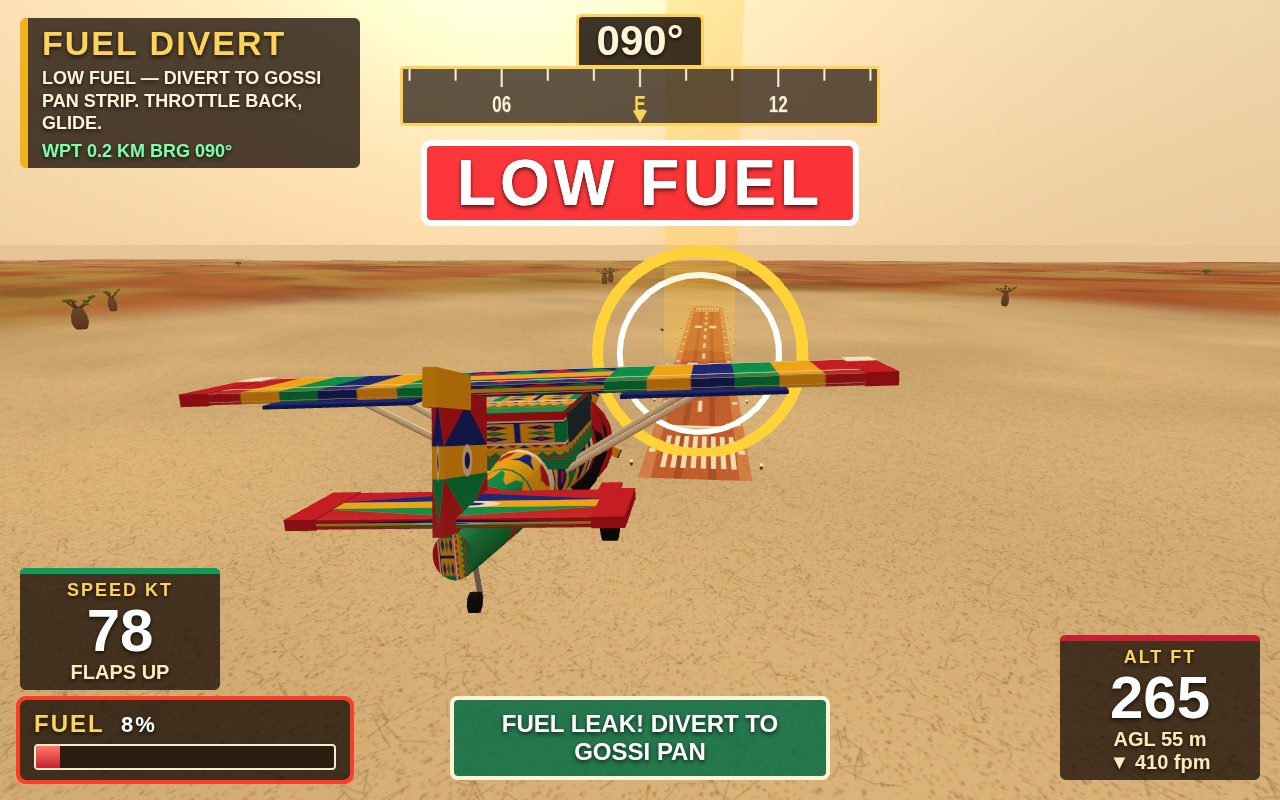
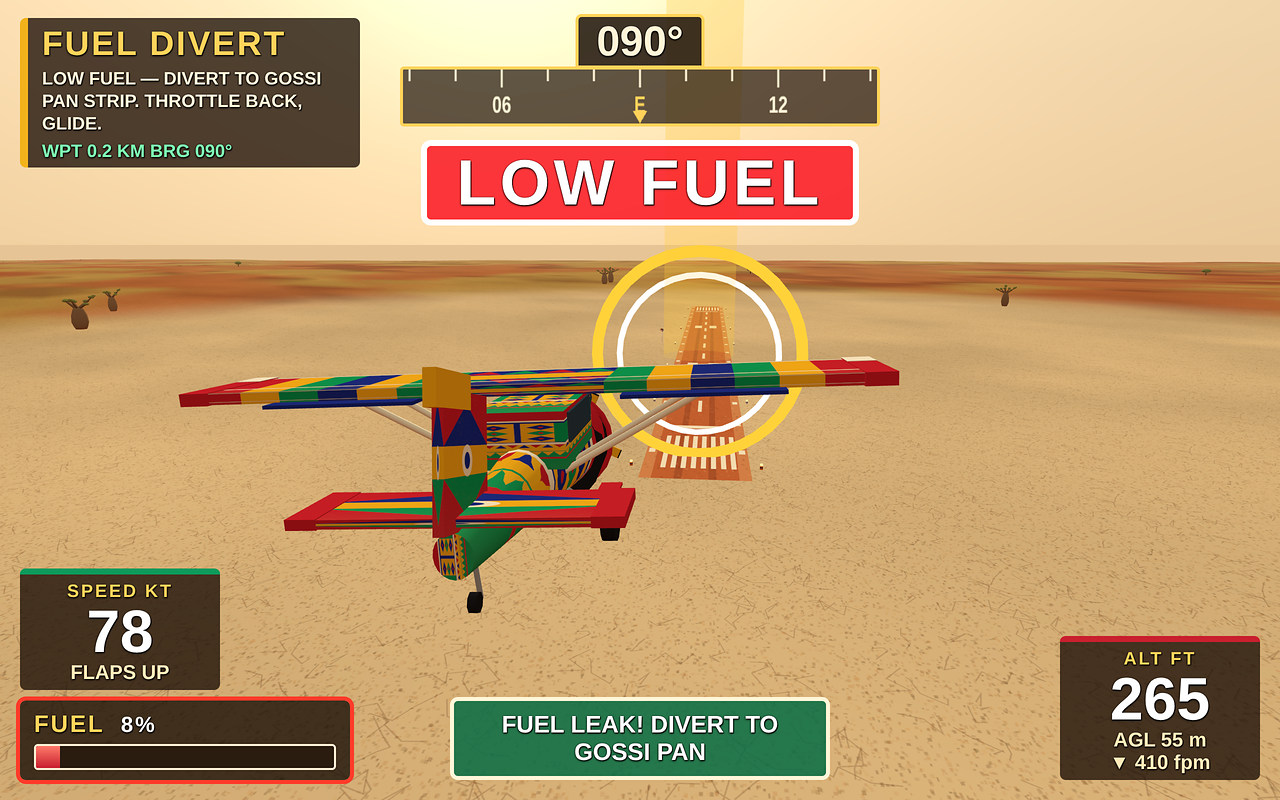
Sharper Harmattan Mail screenshots: 2x supersample, AA, anisotropic textures, crisper HUD, Dust Whiteout copy fix.

diff --git a/game/src/world/textureFactory.js b/game/src/world/textureFactory.js
@@ -5,13 +5,13 @@ import { mulberry32 } from '../core/rng.js';
 export function makeCanvas(w, h) { const c = document.createElement('canvas'); c.width = w; c.height = h; return c; }
 export function toTexture(c, repeat = false) {
   const t = new THREE.CanvasTexture(c);
-  t.colorSpace = THREE.SRGBColorSpace; t.anisotropy = 4;
+  t.colorSpace = THREE.SRGBColorSpace; t.anisotropy = 16;
   if (repeat) t.wrapS = t.wrapT = THREE.RepeatWrapping;
   return t;
 }
 
 export function groundDetailTexture() {
-  const c = makeCanvas(256, 256), g = c.getContext('2d'), r = mulberry32(3);
+  const c = makeCanvas(512, 512), g = c.getContext('2d'), r = mulberry32(3); g.scale(2, 2);
   g.fillStyle = '#ece1d0'; g.fillRect(0, 0, 256, 256);
   for (let i = 0; i < 2600; i++) {
     const v = 120 + r() * 120 | 0;
@@ -29,7 +29,7 @@ export function groundDetailTexture() {
 
 // Laterite strip: packed red earth, wheel tracks, white threshold bars, centre dashes, edge stones.
 export function stripTexture() {
-  const W = 128, L = 1024, c = makeCanvas(W, L), g = c.getContext('2d'), r = mulberry32(5);
+  const W = 128, L = 1024, c = makeCanvas(W * 2, L * 2), g = c.getContext('2d'), r = mulberry32(5); g.scale(2, 2);
   g.fillStyle = '#c9683a'; g.fillRect(0, 0, W, L);
   g.fillStyle = '#d98b57'; g.fillRect(0, 0, 14, L); g.fillRect(W - 14, 0, 14, L);
   g.fillStyle = 'rgba(110,45,25,0.28)'; g.fillRect(40, 0, 9, L); g.fillRect(79, 0, 9, L);
@@ -49,7 +49,7 @@ export function stripTexture() {
 }
 
 export function minaretTexture() {
-  const c = makeCanvas(128, 256), g = c.getContext('2d'), r = mulberry32(9);
+  const c = makeCanvas(256, 512), g = c.getContext('2d'), r = mulberry32(9); g.scale(2, 2);
   g.fillStyle = '#c98c54'; g.fillRect(0, 0, 128, 256);
   for (let i = 0; i < 900; i++) { g.fillStyle = `rgba(${r() < 0.5 ? '240,200,150' : '110,60,30'},${0.08 + r() * 0.14})`; g.fillRect(r() * 128, r() * 256, 2 + r() * 6, 1 + r() * 3); }
   g.fillStyle = '#7d4526'; for (const y of [0, 118, 244]) g.fillRect(0, y, 128, 12);
@@ -61,7 +61,7 @@ export function minaretTexture() {
 }
 
 export function clinicRoofTexture() {
-  const c = makeCanvas(256, 128), g = c.getContext('2d');
+  const c = makeCanvas(512, 256), g = c.getContext('2d'); g.scale(2, 2);
   g.fillStyle = '#b6222c'; g.fillRect(0, 0, 256, 128);
   g.fillStyle = '#f7efdc'; g.fillRect(0, 0, 256, 10); g.fillRect(0, 118, 256, 10);
   g.fillStyle = '#f7efdc'; g.beginPath(); g.moveTo(128, 100); g.bezierCurveTo(40, 52, 80, 14, 128, 42); g.bezierCurveTo(176, 14, 216, 52, 128, 100); g.fill();
@@ -69,7 +69,7 @@ export function clinicRoofTexture() {
 }
 
 export function courtyardTargetTexture() {
-  const c = makeCanvas(256, 256), g = c.getContext('2d');
+  const c = makeCanvas(512, 512), g = c.getContext('2d'); g.scale(2, 2);
   g.fillStyle = '#e8c597'; g.fillRect(0, 0, 256, 256);
   const rings = [['#c8202f', 120], ['#f7efdc', 94], ['#c8202f', 66], ['#f7efdc', 38], ['#1d2c8f', 16]];
   for (const [col, rad] of rings) { g.fillStyle = col; g.beginPath(); g.arc(128, 128, rad, 0, 7); g.fill(); }

diff --git a/game/styles/hud.css b/game/styles/hud.css
@@ -1,7 +1,7 @@
 * { box-sizing: border-box; margin: 0; padding: 0; }
 html, body { width: 100%; height: 100%; overflow: hidden; background: #dcb98b; font-family: 'Trebuchet MS', 'Segoe UI', Arial, sans-serif; color: #fff4d6; user-select: none; }
 #view { position: fixed; inset: 0; width: 100%; height: 100%; display: block; }
-#hud { position: fixed; inset: 0; pointer-events: none; display: none; text-shadow: 0 2px 4px rgba(0,0,0,.7); }
+#hud { position: fixed; inset: 0; pointer-events: none; display: none; text-shadow: 0 0 1px rgba(0,0,0,.95), 0 1px 2px rgba(0,0,0,.9), 1px 1px 0 rgba(0,0,0,.6); text-rendering: geometricPrecision; -webkit-font-smoothing: antialiased; }
 .lab { font-size: 18px; font-weight: 800; letter-spacing: 2px; color: #ffd25a; }
 .big { font-size: 74px; font-weight: 900; line-height: 1; color: #fff; font-variant-numeric: tabular-nums; }
 .small { font-size: 20px; font-weight: 700; color: #ffe9b8; }

diff --git a/game/src/shots/screenshotScenes.js b/game/src/shots/screenshotScenes.js
@@ -35,7 +35,9 @@ const SCENES = {
     pose(g, { x: 3, z: 485, heading: 0, agl: 36, speed: 42, throttle: 0.55, fuel: 64, pitch: -1.5, bank: 0, flaps: 1 });
     g.setCameraMode('cockpit'); g.ac.model.nose.visible = false; g.state.bannerT = 0;
     g.sky.setDust(0.95, 0.0034);
-    css('#hud #mTitle{font-size:0}#hud #mTitle:after{content:"DUST WHITEOUT";font-size:34px}');
+    css('#hud #mTitle,#hud #mObj,#hud #mWpt{font-size:0}#hud #mTitle:after{content:"DUST WHITEOUT";font-size:34px}'
+      + '#hud #mObj:after{content:"Land on the laterite using the lamps and drums in the haze";font-size:18px}'
+      + '#hud #mWpt:after{content:"LAMP ROW 0.1 KM AHEAD";font-size:18px}');
   },
   // FUEL DIVERT: LOW FUEL warning kept big but up top; plane, strip and ring stay clear below it.
   mission(g) {

diff --git a/game/src/main.js b/game/src/main.js
@@ -21,7 +21,7 @@ state.shot = !!shotName;
 
 const canvas = document.getElementById('view');
 const renderer = new THREE.WebGLRenderer({ canvas, antialias: true, powerPreference: 'high-performance' });
-renderer.setPixelRatio(shotName ? 1 : Math.min(devicePixelRatio, 1.5));
+renderer.setPixelRatio(shotName ? 2 : Math.min(devicePixelRatio, 1.5));
 renderer.shadowMap.enabled = true; renderer.shadowMap.type = THREE.PCFSoftShadowMap;
 const scene = new THREE.Scene();
 const camera = new THREE.PerspectiveCamera(56, innerWidth / innerHeight, 0.4, 14000);

diff --git a/game/src/aircraft/mailbirdModel.js b/game/src/aircraft/mailbirdModel.js
@@ -65,6 +65,6 @@ export function buildMailbird() {
   }
   add(exterior, new THREE.CylinderGeometry(0.14, 0.14, 0.12, 8), dark, 0, -0.85, 3.55, { rz: Math.PI / 2 });
   add(exterior, new THREE.CylinderGeometry(0.04, 0.04, 0.8, 5), steel, 0, -0.5, 3.4, { rx: 0.2 });
-  root.traverse((m) => { if (m.isMesh && m.material.map) m.material.map.anisotropy = 8; });
+  root.traverse((m) => { if (m.isMesh && m.material.map) m.material.map.anisotropy = 16; });
   return { root, exterior, nose, propGroup, disc };
 }
